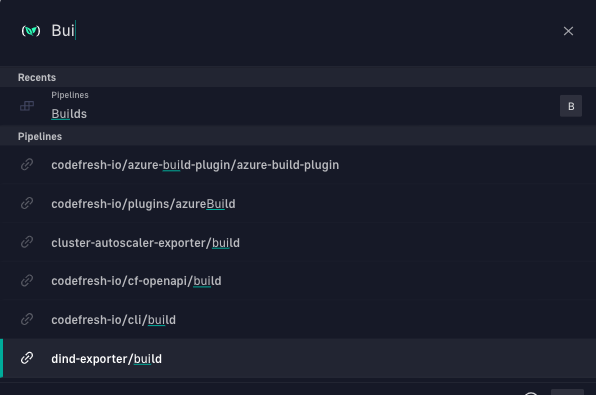
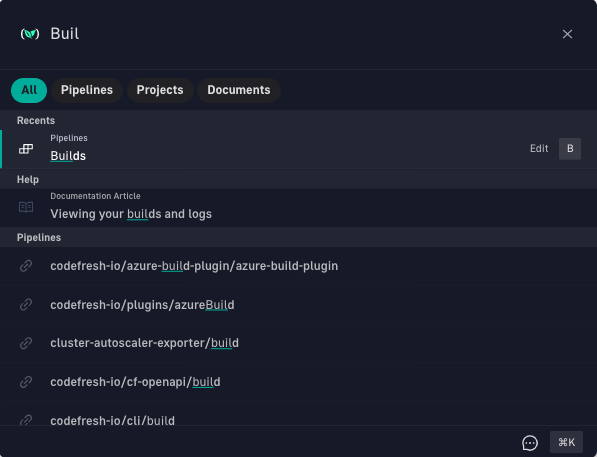
Add note on handshake
Added note on handshake request in on-prem environments; changed title to Universal Search & Navigation

diff --git a/_docs/getting-started/command-bar.md b/_docs/getting-started/command-bar.md
@@ -7,12 +7,15 @@ toc: true
 
 
 
-Stay where you are in Codefresh to get to what you want! Be it navigation without extra clicks, actions such as switching accounts, finding entities such as pipelines or builds, Codefresh Quick Search is your answer. 
+Stay where you are in Codefresh and get to what you want without extra clicks! Be it navigation, actions such as switching accounts, finding entities such as pipelines or builds, Codefresh Universal Search & Navigation is your answer. 
 
-## About Quick Search
+## About Universal Search & Navigation
 
-The Quick Search is always displayed in the toolbar, top-left.  
-Start typing in the first letters of what you're looking for, and then select the option or use the shortcut keys.
+Universal Search & Navigation is always available in the toolbar, displayed on the top-left.
+When you click the Quick Search field, you can see the predefined categories to jump-start your search for **Pipelines** **Projects**, or **Documentation**. 
+
+To start the search, click a category or directly type in the first letters of what you're looking for.
+Select the option or use the shortcut keys.
 
 > TIP:   
 The results are synced to your permissions and account settings. 
@@ -23,16 +26,22 @@ image.html
 lightbox="true" 
 file="/images/administration/command-bar/quick-search-options.png" 
 url="/images/administration/command-bar/quick-search-options.png" 
-alt="Quick Search in Codefresh" 
-caption="Quick Search in Codefresh" 
+alt="Universal Navigation & Search in Codefresh" 
+caption="Universal Navigation & Search in Codefresh" 
 max-width="60%" 
 %}
 
 
 We are always adding more options, so stay tuned to our online announcements.
 
-## Search for entities/features/settings
-Whether it is a task, a feature, a specific entity such as a pipeline or build, find what you're looking for with Quick Search.
+>**NOTE**:
+>The Universal Search & Navigation feature establishes an initial handshake request with the data source API on inital loading. The outcome of this request does not impact functionality, even in on-premises or air-gapped environments where it will fail.  
+>Although your monitoring or alerting systems may flag it as a failure, you can safely disregard the failure notification.
+
+
+## Find entities/features/settings
+In addition to finding projects and pipelines, you can also get to account or user settings, and installation pages.
+
 
 
  {% include 
@@ -40,16 +49,16 @@ image.html
 lightbox="true" 
 file="/images/administration/command-bar/quick-search-builds.png" 
 url="/images/administration/command-bar/quick-search-builds.png" 
-alt="Quick Search results for builds" 
-caption="Quick Search results for builds" 
+alt="Example: Finding Builds list with Universal Navigation & Search" 
+caption="Example: Finding Builds list with Universal Navigation & Search" 
 max-width="60%" 
 %}
 
 ## Switch accounts
-Use Quick Search to switch between Codefresh accounts. 
-Instead of selecting the account to sign into from your avatar, stay where you are, and use our built-in action to switch accounts.
+Use Universal Search & Navigation to switch between Codefresh accounts. 
+Instead of selecting the account to sign in to from your avatar, stay where you are, and use our built-in action to switch accounts.
 
-* In the Quick Search, start typing `accounts` to get the Switch Account action.
+* In the Quick Search, start typing `accounts` to get to the Switch Account action.
 * Select it to see the list of accounts, and then either select or use auto-complete to select the account.
 
  {% include 
@@ -57,10 +66,12 @@ image.html
 lightbox="true" 
 file="/images/administration/command-bar/switch-account.png" 
 url="/images/administration/command-bar/switch-account.png" 
-alt="Switch accounts with Quick Search" 
-caption="Switch accounts with Quick Search" 
+alt="Switch accounts with Universal Navigation & Search" 
+caption="Switch accounts with Universal Navigation & Search" 
 max-width="60%" 
 %}
+
+
 
 ## Related articles
 [Account and user settings]({{site.baseurl}}/docs/administration/account-user-management)
